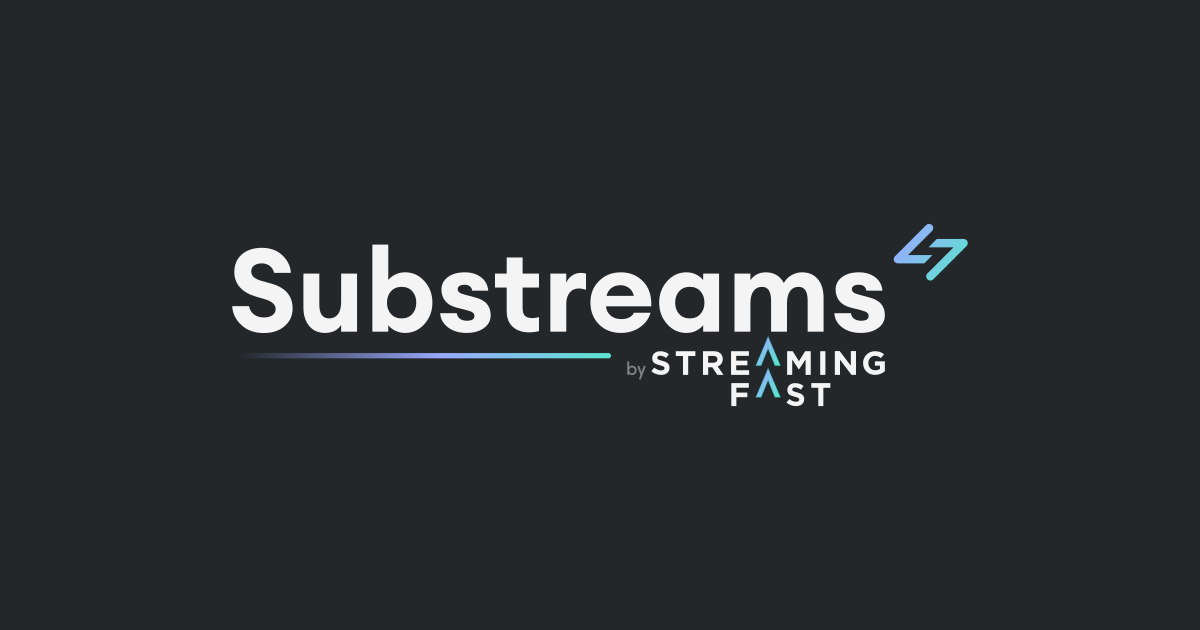
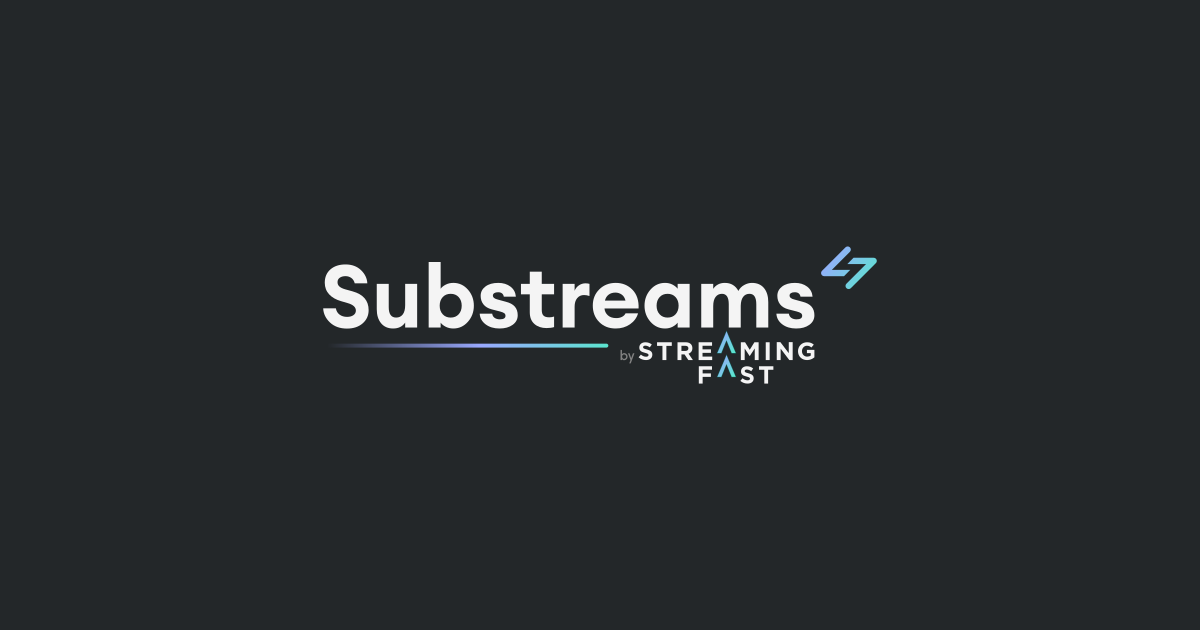
Tweak docs brand: covers, social preview crop and heavier font

Changed region(s): [[0.185, 0.3619, 0.8017, 0.6635]]

diff --git a/docs/.gitbook/assets/brand/README.md b/docs/.gitbook/assets/brand/README.md
@@ -14,10 +14,11 @@ Source: `@streamingfast/ui-tokens` v0.1.0 (brand logos and `tokens.css`).
 | `logo-on-dark.png` / `.svg`          | Header logo, dark mode. Same, light text.                                 |
 | `icon-light.png` / `.svg`            | Site icon (favicon), light mode. Substreams icon on `#fafcfc` tile, 512×512. |
 | `icon-dark.png` / `.svg`             | Site icon (favicon), dark mode. Same on `#141516` tile.                   |
-| `social-preview.png` / `.svg`        | Social preview (`og:image`).                                              |
+| `cover.png` / `.svg`                 | Introduction page cover (`docs/README.md` front matter, hero size), 1600×400. |
+| `social-preview.png` / `.svg`        | Social preview (`og:image`), 1200×630. Logo kept inside the center 630×630 square, Slack crops to it. |
 
-PNGs are rendered from the SVGs with `rsvg-convert` (`-w 1200` for logos, `-w 512 -h 512` for icons). The icon is
-the gradient mark cut out of `substreams/svg/substreams-on-dark.svg`, on the rounded tile of `streamingfast/icon/*`.
+PNGs are rendered from the SVGs with `rsvg-convert` (`-w 1200` for logos, `-w 512 -h 512` for icons, `-w 1600 -h 400`
+for the cover). The icon is the gradient mark cut out of `substreams/svg/substreams-on-dark.svg`, on the rounded tile of `streamingfast/icon/*`.
 
 ## Customization settings
 
@@ -41,10 +42,11 @@ Site → **Customization**. Labels match the [GitBook docs](https://gitbook.com/
 
 **Site styles**
 
-- **Custom fonts** → **Add custom font** "Urbanist", regular + semibold + bold `.woff2`:
-  [400](https://cdn.jsdelivr.net/fontsource/fonts/urbanist@latest/latin-400-normal.woff2),
-  [600](https://cdn.jsdelivr.net/fontsource/fonts/urbanist@latest/latin-600-normal.woff2),
-  [700](https://cdn.jsdelivr.net/fontsource/fonts/urbanist@latest/latin-700-normal.woff2)
+- **Custom fonts** → **Add custom font** "Urbanist", one weight step heavier than the slot it fills, because Urbanist
+  reads too thin at its nominal weights. Upload each `.woff2` into the slot named before the arrow:
+  regular (400) ← [500](https://cdn.jsdelivr.net/fontsource/fonts/urbanist@latest/latin-500-normal.woff2),
+  semibold (600) ← [700](https://cdn.jsdelivr.net/fontsource/fonts/urbanist@latest/latin-700-normal.woff2),
+  bold (700) ← [800](https://cdn.jsdelivr.net/fontsource/fonts/urbanist@latest/latin-800-normal.woff2)
   (from [Fontsource](https://fontsource.org/fonts/urbanist), OFL).
 - **Font family** → **Main font**: Urbanist. **Headings**: same as main font.
 - **Font family** → **Monospace**: JetBrains Mono (built-in).

diff --git a/docs/README.md b/docs/README.md
@@ -1,6 +1,10 @@
 ---
-cover: .gitbook/assets/brand/social-preview.png
+cover: .gitbook/assets/brand/cover.png
 coverY: 0
+layout:
+  cover:
+    visible: true
+    size: hero
 ---
 
 # Introduction
